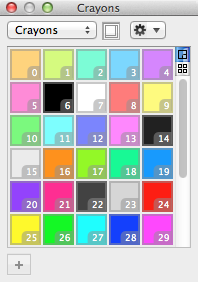
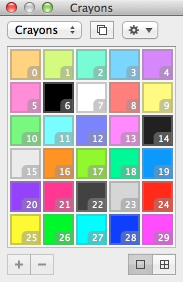
Retina-optimized Discover Pixen tutorial (6)

diff --git a/Resources/PixenIntro/palette.html b/Resources/PixenIntro/palette.html
@@ -7,7 +7,7 @@
 
 <body>
 	<h2>Color Palettes</h2>
-	<img class="left shadow" src="Palette.png" alt="Color Palettes in Pixen" />
+	<img id="palette" class="left shadow" src="Palette.png" width="183" height="282" alt="Color Palettes in Pixen" />
 	<p>Pixen's color palettes are important to the creation of low- and high-color pixel art alike. They make it easy to create and manage predefined schemes of colors that can be reused across documents.</p>
 	<p>To get started, open the color panel by clicking on the color well in the tools palette. Switch to the <strong>Pixen Colors</strong> tab (on the far right).</p>
 	<p>Here, you can create and organize palettes of common colors, import palettes of various formats, and even detach palettes into their own panels. To make a color active, simply click on it. To change a color, drag a replacement color on top of it.</p>

diff --git a/Resources/PixenIntro/style.css b/Resources/PixenIntro/style.css
@@ -75,6 +75,9 @@ a.button:hover {
 	img#animation {
 		content: url("Animation_2x.png");
 	}
+	img#palette {
+		content: url("Palette_2x.png");
+	}
 	img#crosshair {
 		content: url("Crosshair_2x.png");
 	}
